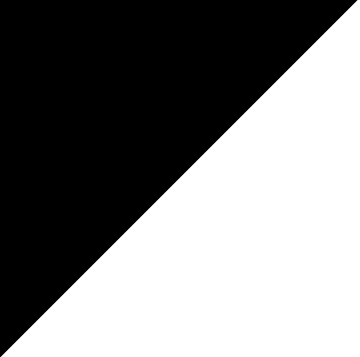
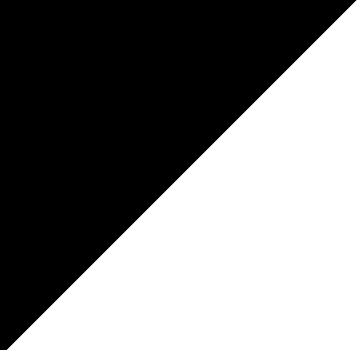
Before nav

diff --git a/subpage-stylesheet.css b/subpage-stylesheet.css
@@ -365,7 +365,7 @@ img {
   bottom: 0;
   right: 0;
   margin: 0;
-  background-image: url(photo/triangle.png);
+  background-image: url(photo/trianglenav.png);
   background-repeat: no-repeat;
   background-size: 323px 600px;
 }
